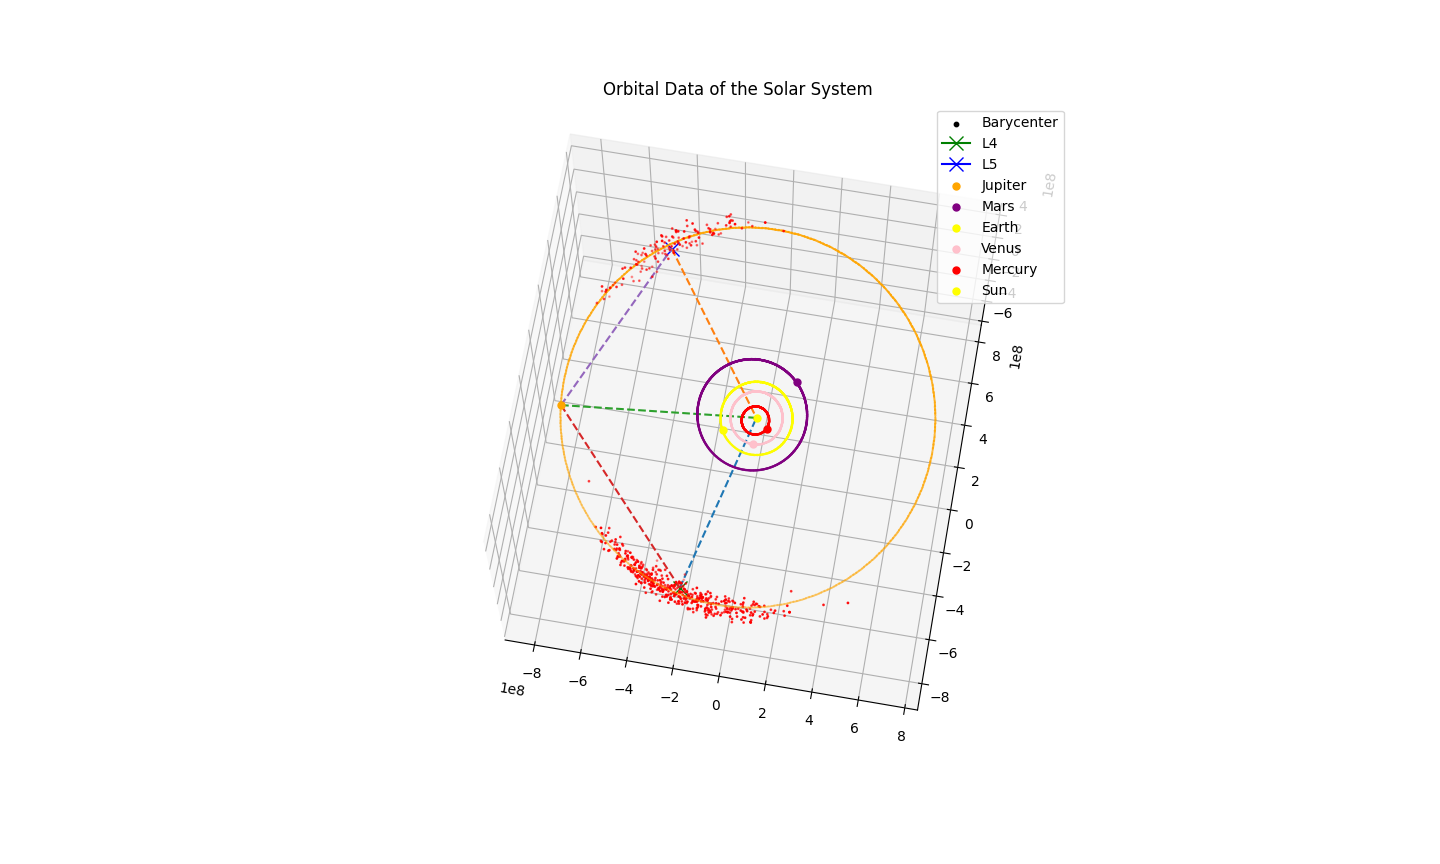
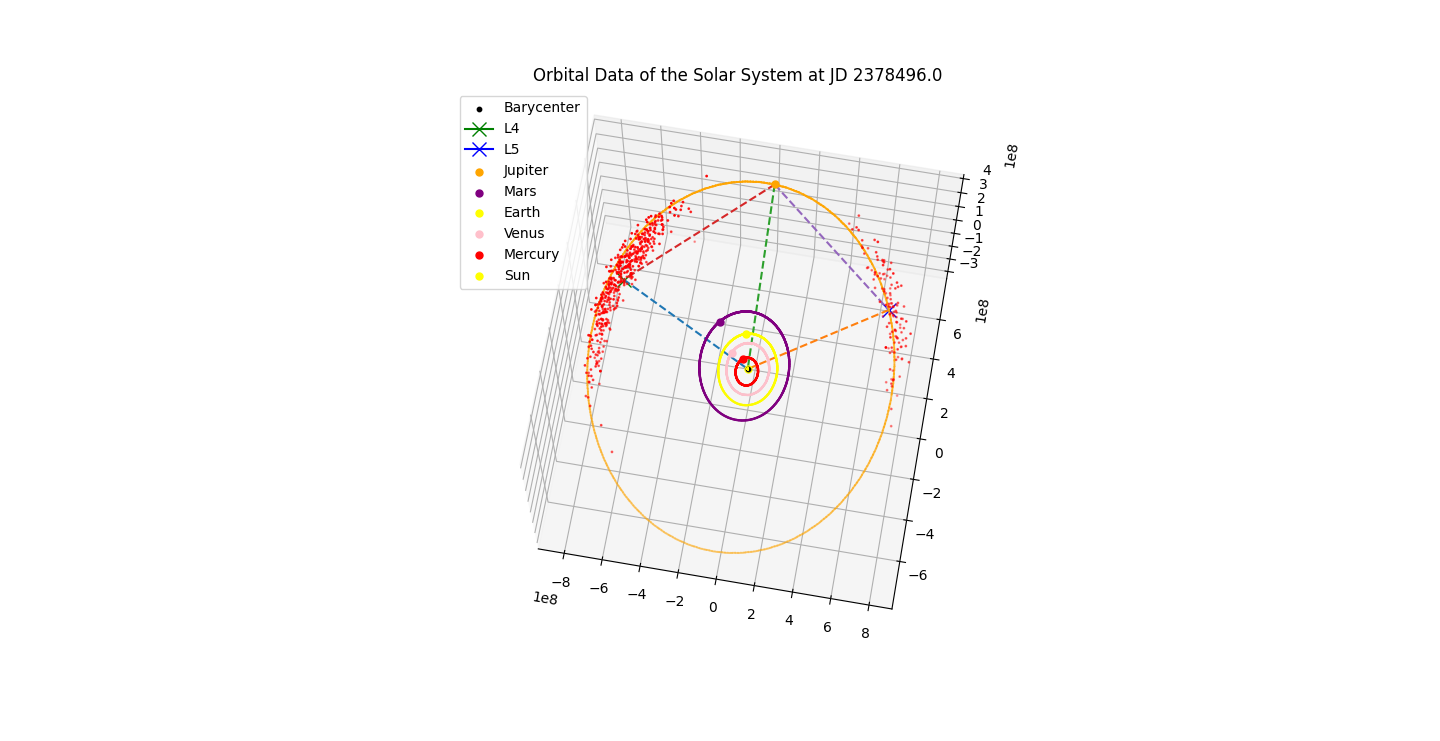
commit

Changed region(s): [[0.3125, 0.1242, 0.75, 0.8381], [0.3438, 0.0931, 0.6562, 0.1552], [0.3125, 0.1552, 0.3438, 0.2173]]

diff --git a/Individual_Trojan_Data.py b/Individual_Trojan_Data.py
@@ -11,6 +11,8 @@ y = []
 z = []
 ax = plt.axes(projection="3d")
 
+JD = 0
+
 # All be started from 1800-01-01
 # Step size = 60 days
 # Coordinate center = Solar System Barycenter
@@ -20,7 +22,7 @@ ax = plt.axes(projection="3d")
 xj = []
 yj = []
 zj = []
-t = 68  # Time to show all the objects
+t = 12  # Time to show all the objects
 # JDTDB time to de determined by JDTDB = 2378496.5 + 60t
 
 with open('Planetary_Orbital_Data/Jupiter_position_data.txt', newline='') as empherides:
@@ -378,6 +380,7 @@ for spkid in L5_spkid:
         troj5_x.append(x5[t])
         troj5_y.append(y5[t])
         troj5_z.append(z5[t])
+        JD = JDTDB[t]
 
 def trojan_average_positon():
     L4avgx = sum(troj4_x) / len(troj4_x)
@@ -465,7 +468,8 @@ ax.scatter3D(xsu, ysu, zsu, color='yellow', s=0.25)
 ax.scatter3D(tx4, ty4, tz4, color='red', s=1)
 ax.scatter3D(tx5, ty5, tz5, color='red', s=1)
 
-plt.title(f'Orbital Data of the Solar System')
+
+plt.title(f'Orbital Data of the Solar System at JD {round(float(JD),0)}')
 ax.view_init(elev=70, azim=-80)
 plt.legend()
 plt.show()

diff --git a/distance_plot.py b/distance_plot.py
@@ -12,6 +12,8 @@ print(times)
 L4jd = []
 L5jd = []
 
+JD = 0
+
 start = time.time()
 
 for t in times:
